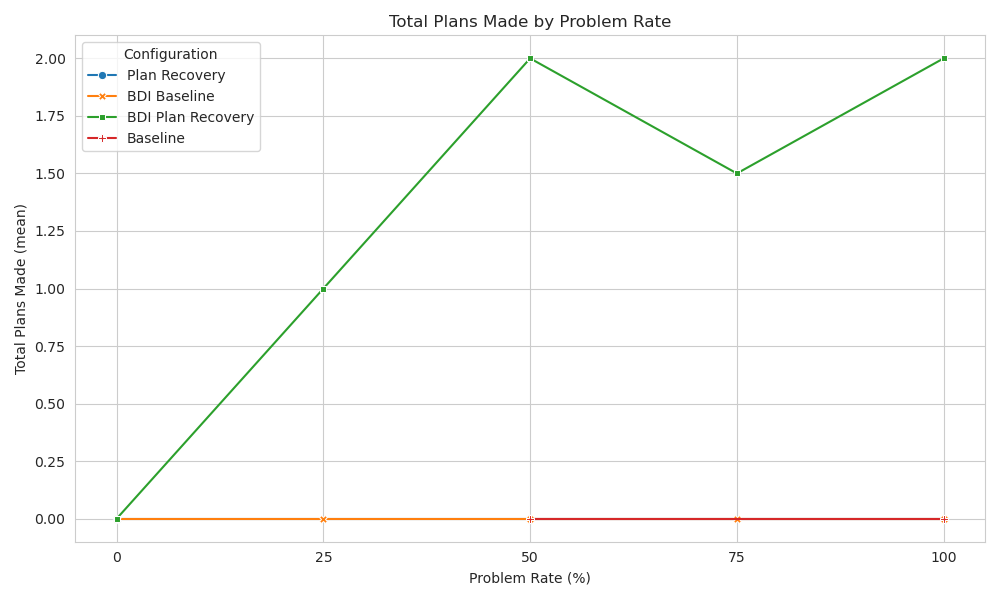
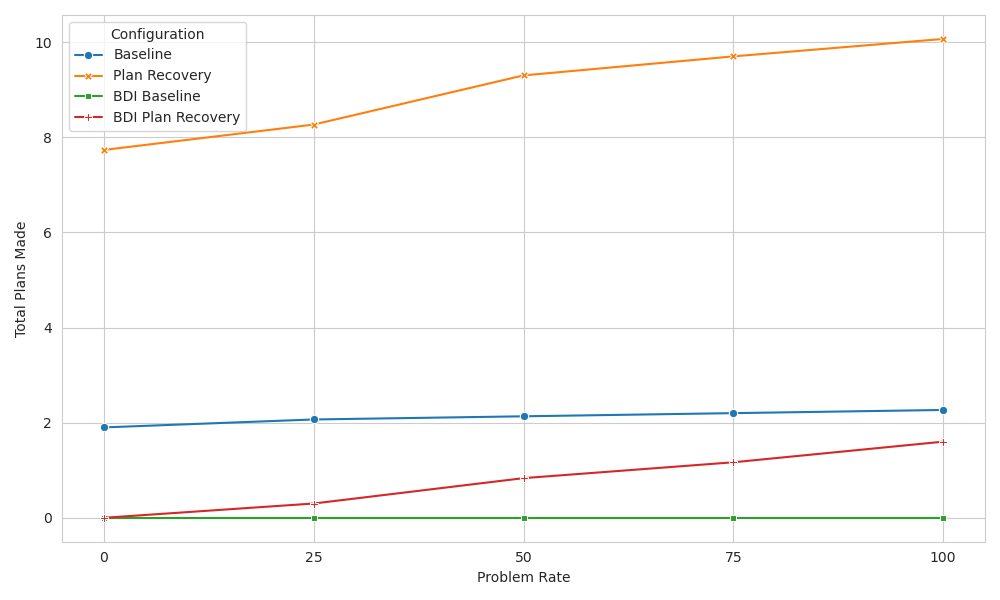
final changes

diff --git a/analyze_results_disinfect.py b/analyze_results_disinfect.py
@@ -112,13 +112,55 @@ def plans_same_chart(summary, plot_dir):
     )
 
     plt.xticks([0, 25, 50, 75, 100])
-    plt.title("Total Plans Made by Problem Rate")
-    plt.ylabel("Total Plans Made (mean)")
-    plt.xlabel("Problem Rate (%)")
     plt.legend(title="Configuration")
-
     plt.tight_layout()
     plt.savefig(plot_dir / "plans_same_chart.png")
+    plt.close()
+
+def actions_same_chart(summary, plot_dir):
+    """Plot Total Actions with 4 lines (BDI/Replan combinations) and different markers"""
+
+    # Combine Have BDI + Can Replan into a single label
+    summary["Config"] = summary.apply(
+        lambda row: getLabel(row['Can Replan'], row['Have BDI']),
+        axis=1
+    )
+
+    plt.figure(figsize=(10, 6))
+    sns.lineplot(
+        data=summary,
+        x="Problem Rate",
+        y="Total Actions",
+        hue="Config",      # different colors
+        style="Config",    # different markers
+        markers=True,
+        dashes=False       # solid lines instead of dashed
+    )
+
+    plt.xticks([0, 25, 50, 75, 100])
+
+    plt.tight_layout()
+    plt.savefig(plot_dir / "actions_same_chart.png")
+    plt.close()
+
+def runtime(summary, plot_dir):
+    """Plot Total Actions with 4 lines (BDI/Replan combinations) and different markers"""
+
+    # Combine Have BDI + Can Replan into a single label
+    summary["Config"] = summary.apply(
+        lambda row: getLabel(row['Can Replan'], row['Have BDI']),
+        axis=1
+    )
+
+    plt.figure(figsize=(10, 6))
+    sns.boxplot(
+        data=summary,
+        x="Config",
+        y="Runtime (s)",
+    )
+    plt.xlabel("")
+    plt.tight_layout()
+    plt.savefig(plot_dir / "runtime.png")
     plt.close()
 
 def actions(summary, plot_dir):
@@ -139,67 +181,16 @@ def actions(summary, plot_dir):
     # Tweak the supporting aspects of the plot
     plt.savefig(plot_dir / "actions.png")
 
-def runtime(summary, plot_dir):
-    """Plot total plans made grouped by BDI and Replan"""
-
-    g = sns.relplot(
-        data=summary,
-        x="Problem Rate",
-        y="Runtime (s)",
-        col="Have BDI",
-        row="Can Replan",
-        kind="line"
-    )
-
-    for ax in g.axes.flat:
-        ax.set_xticks([0, 25, 50, 75, 100])
-
-    # Tweak the supporting aspects of the plot
-    plt.savefig(plot_dir / "runtime.png")
-
-def failures_vs_completion(summary, plot_dir):
-    """Bar chart of failures with overlayed lines for each config"""
-
-    # Add Completion % and Total Failures
-    summary["Completion %"] = summary["Completed Missions"] / summary["Total Missions"] * 100
-    summary["Total Failures"] = summary[["Batery Failures", "Dirty Failures", "ICU Failures"]].sum(axis=1)
-
-    # Map Can Replan to descriptive labels
-    summary["Replan Label"] = summary["Can Replan"].map({True: "Plan Recovery", False: "Baseline"})
-
-    plt.figure(figsize=(10, 6))
-    sns.scatterplot(
-        data=summary,
-        x="Total Failures",
-        y="Completion %",
-        hue="Replan Label",   # Human-readable labels
-        style="Have BDI",     # optional: marker style for BDI
-        s=100
-    )
-
-    # Add regression lines per Replan Label
-    sns.lmplot(
-        data=summary,
-        x="Total Failures",
-        y="Completion %",
-        hue="Replan Label",
-        markers=["o","s"],
-        ci=None,
-        scatter=False
-    )
-
-    plt.xlabel("Total Failures")
-    plt.ylabel("Completion (%)")
-    plt.title("Effect of Failures on Completion: Baseline vs Plan Recovery")
-    plt.tight_layout()
-    plt.savefig(plot_dir / "failures_vs_completion.png")
-    plt.close()
-
 def completion_vs_problem_rate(summary, plot_dir):
     """
     Show how plan completion changes with Problem Rate,
     comparing Baseline vs Plan Recovery.
     """
+
+    summary["Config"] = summary.apply(
+        lambda row: getLabel(row['Can Replan'], row['Have BDI']),
+        axis=1
+    )
 
     # Calculate Completion %
     summary["Completion %"] = summary["Completed Missions"] / summary["Total Missions"] * 100
@@ -210,28 +201,17 @@ def completion_vs_problem_rate(summary, plot_dir):
     plt.figure(figsize=(10, 6))
 
     # Lineplot with markers
-    sns.lineplot(
+    sns.barplot(
         data=summary,
-        x="Problem Rate",
+        x="Config",
         y="Completion %",
-        hue="Replan Label",
-        style="Have BDI",  # optional: different marker for BDI
-        markers=True,
-        dashes=False,
-        palette="Set1",
-        linewidth=2
+        hue="Config",
     )
 
-    plt.xticks([0, 25, 50, 75, 100])
-    plt.xlabel("Problem Rate (%)")
-    plt.ylabel("Completion (%)")
-    plt.title("Plan Completion vs Problem Rate")
-    plt.grid(True)
-    plt.legend(title="Configuration")
+    plt.xlabel("")
     plt.tight_layout()
     plt.savefig(plot_dir / "completion_vs_problem_rate.png")
     plt.close()
-
 
 def getLabel(can_replan, bdi): 
     if can_replan and bdi:
@@ -290,14 +270,10 @@ def main():
 
     print("Generating analysis plots...")
 
-    failures(summary, plot_dir)
-    plans(summary, plot_dir)
     plans_same_chart(summary, plot_dir)
     runtime(summary, plot_dir)
-    actions(summary, plot_dir)
-    completion(summary, plot_dir)
-    failures_vs_completion(summary, plot_dir)
     completion_vs_problem_rate(summary, plot_dir)
+    actions_same_chart(summary, plot_dir)
 
     print(f"\nPlots saved to {plot_dir}")
 

diff --git a/src/murosa_plan/murosa_plan/agent.py b/src/murosa_plan/murosa_plan/agent.py
@@ -190,7 +190,8 @@ class Agent(Node):
         elif "Done" == decoded_msg.content.split("|")[0]:
             # Check if the action is in the actions or plans
             if len(self.actions) > 0 or any(decoded_msg.content.split("|")[1] in action for action in self.plan):
-                self.get_logger().info('Finished action ' + decoded_msg.content.split("|")[1])
+                self.get_logger().info('Action finished ' + decoded_msg.content.split("|")[1])
+
                 if self.should_use_bdi:
                     msg = String()
                     action = self.actions.pop()

diff --git a/run_simulation_disinfect.py b/run_simulation_disinfect.py
@@ -353,7 +353,7 @@ def write_summary(results_list, mission, problem_rate, replan, bdi):
 def main():
     Path("logsdisinfect").mkdir(exist_ok=True)
     run_number = 1
-    executions = 1
+    executions = 30
     missions = ["disinfect"]
     problem_rates = [0, 25, 50, 75, 100]
     replan_values = [True, False]
